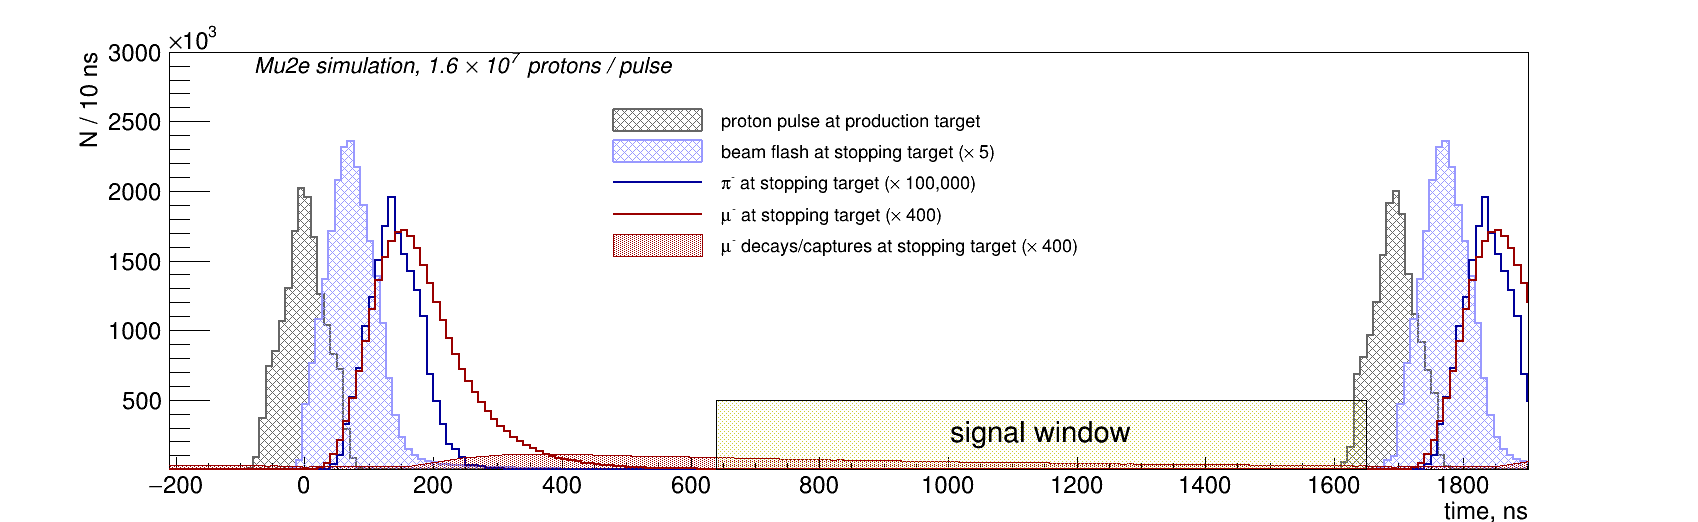
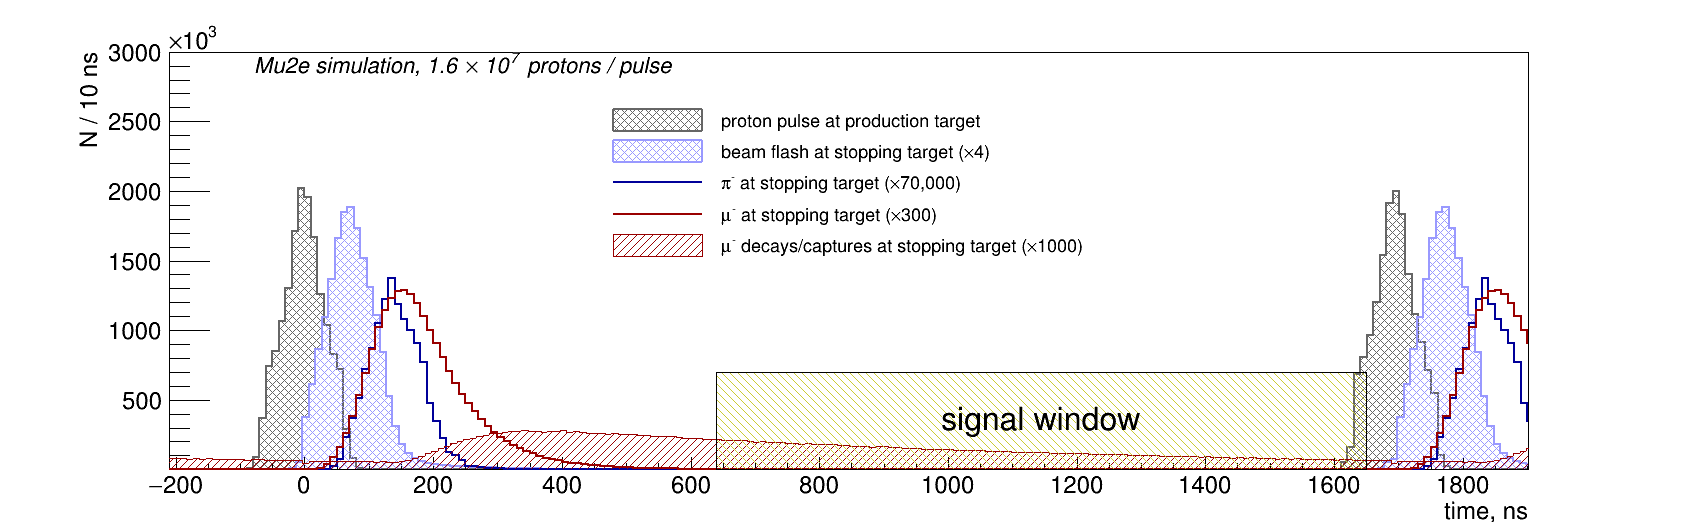
- update the Mu2e timing plot and the script producing it

diff --git a/scripts/plot_stopped_particles.C b/scripts/plot_stopped_particles.C
@@ -10,6 +10,7 @@
 // Figure 3105 : X:Y at a stop point for stopped mu-
 // Figure 3106 : X:Y at a stop point for stopped mu+
 // Figure 3150 : time distribution (combined)
+// Figure 3160 : combined timing distribution
 ///////////////////////////////////////////////////////////////////////////////
 
 //-----------------------------------------------------------------------------
@@ -384,6 +385,9 @@ void plot_stopped_particles(int Figure, int Print, const char* Format) {
     const char* dsid    = "su2020.flsh0s36b0";   // beam flash, 2.5e6, at VD9 with the smeared timing
     const char* dsid2   = "su2020.bmum0s3cb0";   // muon beam,  1e9  , at VD9 with the smeared timing
 
+//-----------------------------------------------------------------------------
+// proton pulse
+//-----------------------------------------------------------------------------
     int npulses = 2;
     TH1F* h_ppt(nullptr);
     make_proton_pulse_hist(h_ppt,2,1.6e7);
@@ -406,13 +410,17 @@ void plot_stopped_particles(int Figure, int Print, const char* Format) {
     p.hd[0].fHist->GetYaxis()->SetLabelSize(0.05);
     p.hd[0].fHist->GetYaxis()->SetTitleSize(0.05);
     p.hd[0].fHist->GetYaxis()->SetTitleOffset(0.6);
-
+//-----------------------------------------------------------------------------
+// beam flash
+//-----------------------------------------------------------------------------
+    float sf_flash = 4;
+    
     TH1F* h_bf(nullptr);
     make_beam_flash_hist(h_bf,-1,1);
     p.hd[1]                = hist_data_t(h_bf);
     p.hd[1].fNewName       = "flash";
     p.hd[1].fRebin         =  1;
-    p.hd[1].fLabel         = "beam flash at stopping target (#times 5)";
+    p.hd[1].fLabel         = Form("beam flash at stopping target (#times%i)",(int) sf_flash);
     p.hd[1].fLabelFontSize = 0.04;
     p.hd[1].fMarkerColor   = kBlue-9;
     p.hd[1].fLineColor     = kBlue-9;
@@ -426,16 +434,20 @@ void plot_stopped_particles(int Figure, int Print, const char* Format) {
 // flsh0 simulation used 2.5e6 POT, renormalize to the low lumi mode pulse
 // scale up by x5 for presentation purposes
 //-----------------------------------------------------------------------------
-    p.hd[1].fLumiSF        = (1.6e7/2.5e6)*5;
+    p.hd[1].fLumiSF        = (1.6e7/2.5e6)*sf_flash;
     p.hd[1].fStats         = 0;
 
-    TH1F* h_pi(nullptr);;
+//-----------------------------------------------------------------------------
+// pions at VD9
+//-----------------------------------------------------------------------------
+    float sf_pions_vd9 = 7e4;
+    TH1F* h_pi(nullptr);
     make_pion_vd9_hist(h_pi,-1,1);
     p.hd[2]                = hist_data_t(h_pi);
     // p.hd[2]                = hist_data_t(catalog,"su2020",dsid2,"spmc_ana.0000","murat_SpmcAna","vdet_1009/time");
     p.hd[2].fNewName       = "pi-";
     p.hd[2].fRebin         =  1;
-    p.hd[2].fLabel         = "#pi^{-} at stopping target (#times 100,000)";
+    p.hd[2].fLabel         = Form("#pi^{-} at stopping target (#times%i,000)",(int)(sf_pions_vd9/1000));
     p.hd[2].fLabelFontSize = 0.04;
     p.hd[2].fMarkerColor   = kBlue+2;
     p.hd[2].fLineColor     = kBlue+2;
@@ -450,15 +462,18 @@ void plot_stopped_particles(int Figure, int Print, const char* Format) {
 //-----------------------------------------------------------------------------
 // pion distribution is normalized to 1.6e7 and additionally scaled up by a factor 100,000 
 //-----------------------------------------------------------------------------
-    p.hd[2].fLumiSF        = (1./62.5)*1e5;
-
+    p.hd[2].fLumiSF        = (1./62.5)*sf_pions_vd9;
+//-----------------------------------------------------------------------------
+// muons at VD9
+//-----------------------------------------------------------------------------
+    float sf_muons_vd9     = 300.;
     TH1F* h_mu(nullptr);
     make_muon_vd9_hist(h_mu,-1,1);
     p.hd[3]                = hist_data_t(h_mu);
     // p.hd[3]                = hist_data_t(catalog,"su2020",dsid2,"spmc_ana.0000","murat_SpmcAna","vdet_309/time");
     p.hd[3].fNewName       = "mu-";
     p.hd[3].fRebin         =  1;
-    p.hd[3].fLabel         = "#mu^{-} at stopping target (#times 400)";
+    p.hd[3].fLabel         = Form("#mu^{-} at stopping target (#times%i)",(int)sf_muons_vd9);
     p.hd[3].fLabelFontSize = 0.05;
     p.hd[3].fMarkerColor   = kRed+2;
     p.hd[3].fLineColor     = kRed+2;
@@ -475,25 +490,27 @@ void plot_stopped_particles(int Figure, int Print, const char* Format) {
 // so to normalize a bmum0 histogram to 1.6e7 POT, need to scale it by 1/62.5
 // for presentation purposes, scale muon histogram by x400
 //-----------------------------------------------------------------------------
-    p.hd[3].fLumiSF        = (400./62.5);
-
+    p.hd[3].fLumiSF        = (sf_muons_vd9/62.5);
+//-----------------------------------------------------------------------------
+// stopped muons
+//-----------------------------------------------------------------------------
+    float sf_stopped_muons = 1000;
     TH1F* h_bmdt(nullptr);
     make_bound_muon_decay_hist(h_bmdt,1000000,-1,1);
     p.hd[4]                = hist_data_t(h_bmdt);
-    p.hd[4].fLabel         = "#mu^{-} decays/captures at stopping target (#times 400)";
+    p.hd[4].fLabel         = Form("#mu^{-} decays/captures at stopping target (#times%4.0f)",sf_stopped_muons);
     p.hd[4].fDrawOpt       = "hist";
     p.hd[4].fLineColor     = kRed+2;
-    p.hd[4].fFillStyle     = 3002;
+    p.hd[4].fFillStyle     = 3004;
     p.hd[4].fFillColor     = kRed+2;
     p.hd[4].fOptStat       = 0;
     p.hd[4].fNewName       = "";
     p.hd[4].fStats         = 0;
 //-----------------------------------------------------------------------------
-// stopped muons
 // h_bmdt is normalized to an integral of one
-// normalization to the proton pulse: 1.6e7*1.59e-3 (plus scale up by x400 for presentation)
+// normalization to the proton pulse: 1.6e7*1.59e-3 (plus scale up by 'lumi_sf' for presentation)
 //-----------------------------------------------------------------------------
-    p.hd[4].fLumiSF        = 2.54e4*400;
+    p.hd[4].fLumiSF        = 2.54e4*sf_stopped_muons;
     
     p.fYLogScale           =  0;
     p.fXMin                =  -300.;
@@ -515,13 +532,13 @@ void plot_stopped_particles(int Figure, int Print, const char* Format) {
 
     plot_hist_1d(&p,-1,Format);
 
-    TPaveLabel* pave = new TPaveLabel(640.,1e3,1650,500e3,"signal window");
+    TPaveLabel* pave = new TPaveLabel(640.,1e3,1650,700e3,"signal window");
     pave->SetBorderSize(1);
     pave->SetLineColor(1); //kYellow-3);
     pave->SetFillColor(kYellow-3);
     pave->SetTextFont(42);
-    pave->SetTextSize(0.45);
-    pave->SetFillStyle(3003);
+    pave->SetTextSize(0.35);
+    pave->SetFillStyle(3005);
     pave->Draw();
 
     p.fCanvas->Modified();
